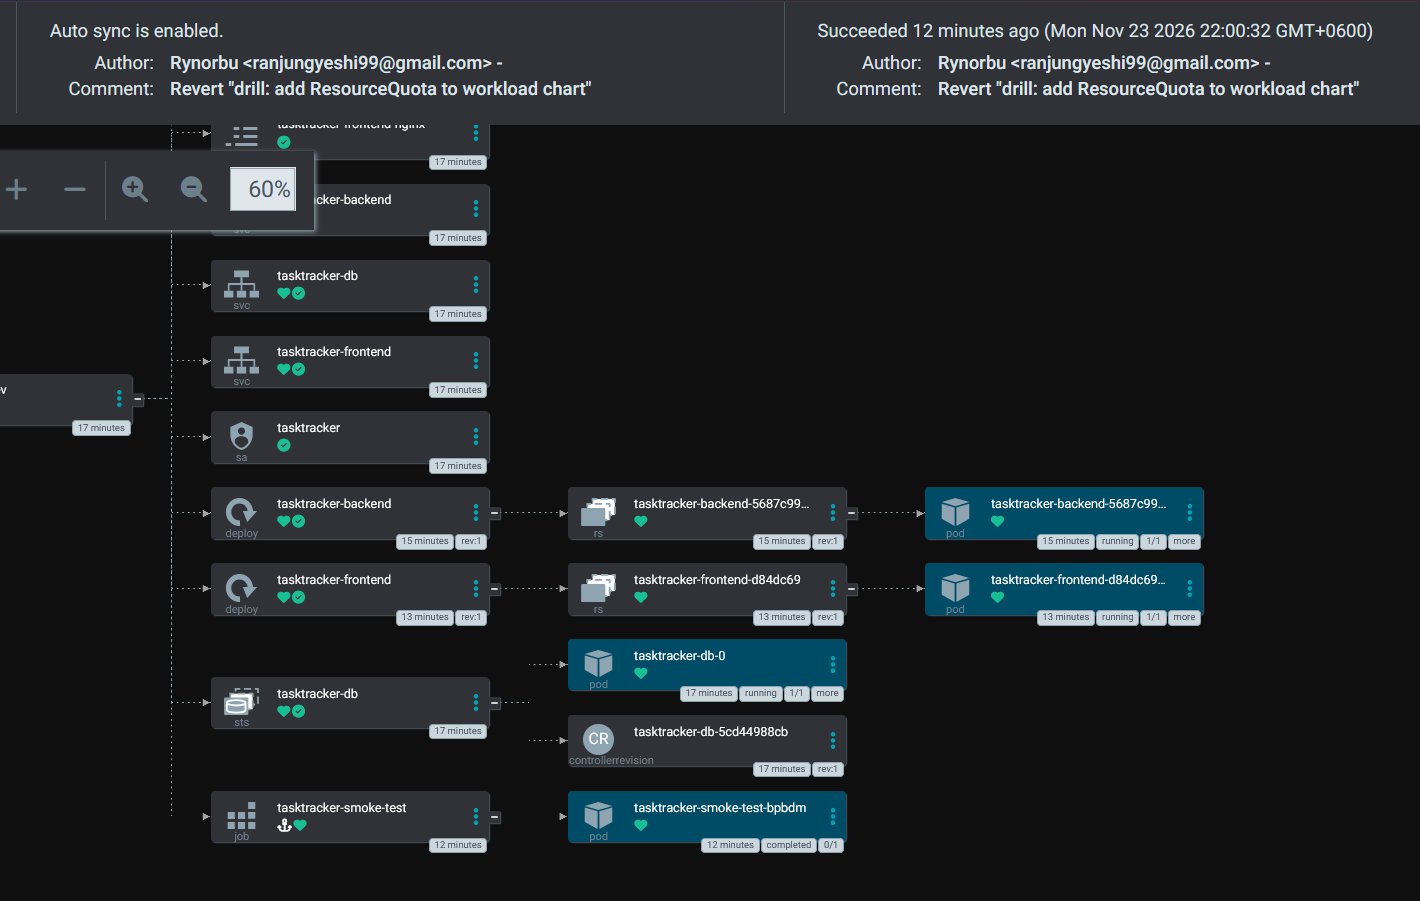
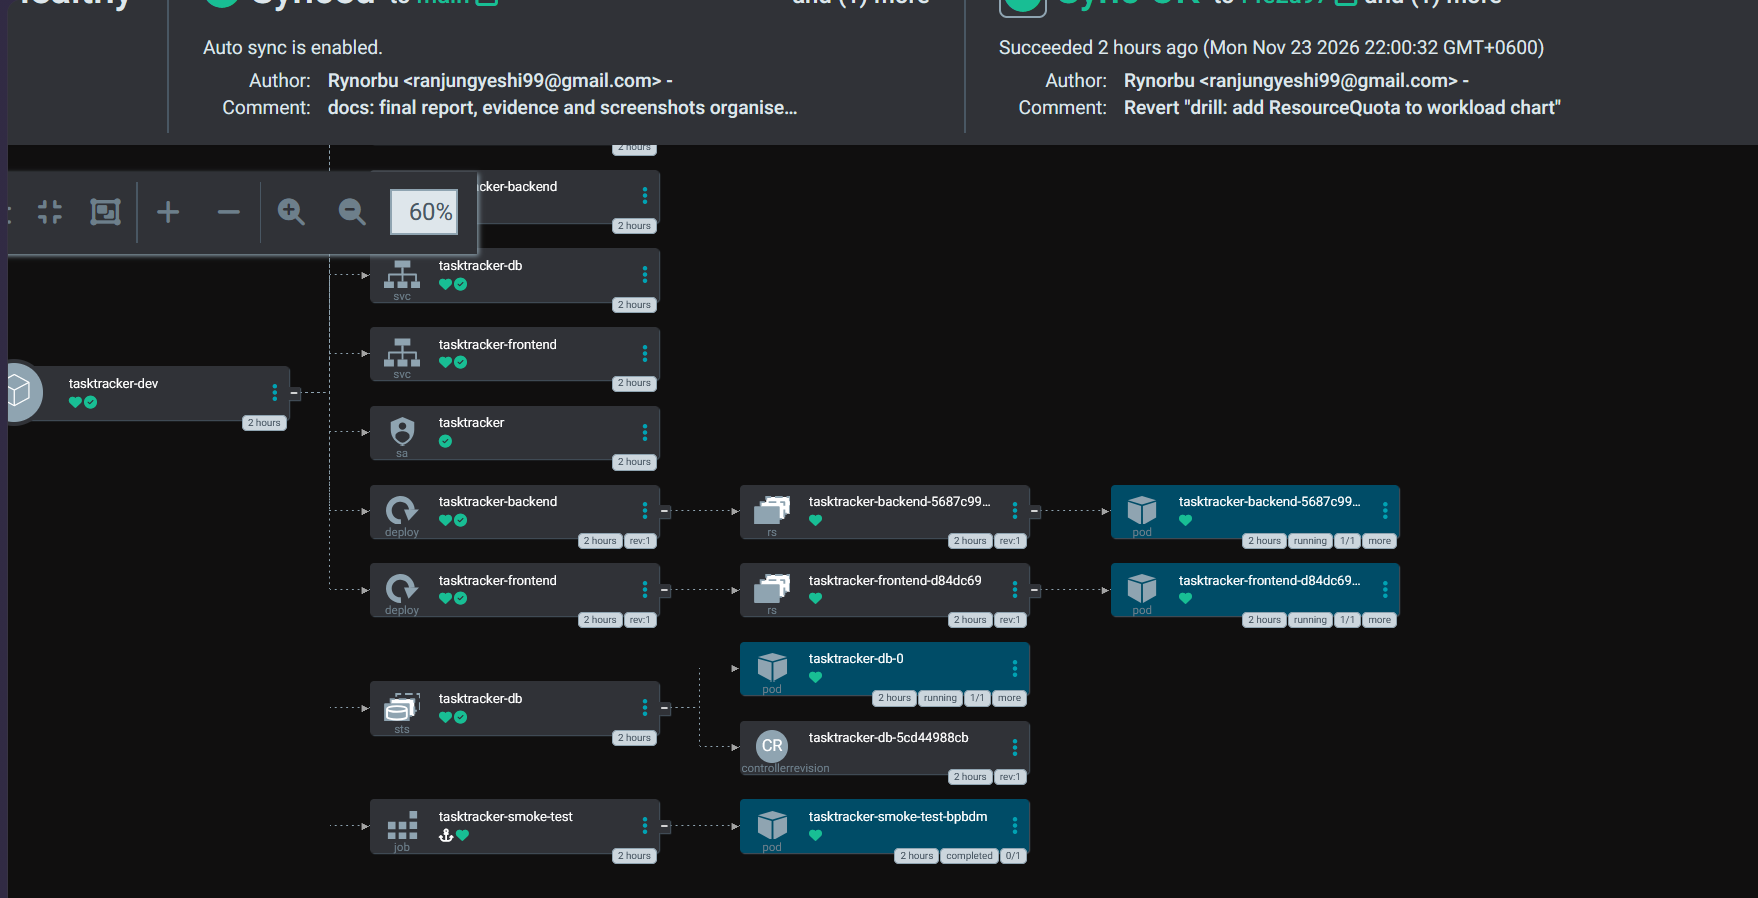
docs: retake Task 10 resource tree after multi-source merge

Changed region(s): [[0.0, 0.0, 1.0, 1.0]]

diff --git a/docs/evidence.md b/docs/evidence.md
@@ -1049,7 +1049,8 @@ Health Status:  Healthy
 ```
 **Observation:**
 - **Nothing in the cluster changed.** The two sources render exactly the same manifests as the old single source, so the resources stayed `Synced` and `Healthy`. Only the way Argo CD fetches the chart and the values changed.
-- **The resource tree is unchanged** (second screenshot): Deployments, StatefulSet, ReplicaSets, Pods and the PostSync Job are all healthy.
+- **The UI confirms the second source.** In the resource tree (second screenshot, taken after PR #8 and the report commit `f9277c1`), the sync status reads `Synced to main ... and (1) more`: the "(1) more" is the `values` source.
+- **The resource tree is unchanged:** Deployments, StatefulSet, ReplicaSets, Pods and the PostSync Job are all healthy, with the same Pod names as before. The last sync operation is still the one from 22:00:32. Switching to two sources produced identical manifests, so Argo CD had nothing to apply.
 
 In the new version of `argocd/applications/tasktracker-dev.yaml`, `source:` is replaced by two `sources:`:
 ```yaml
